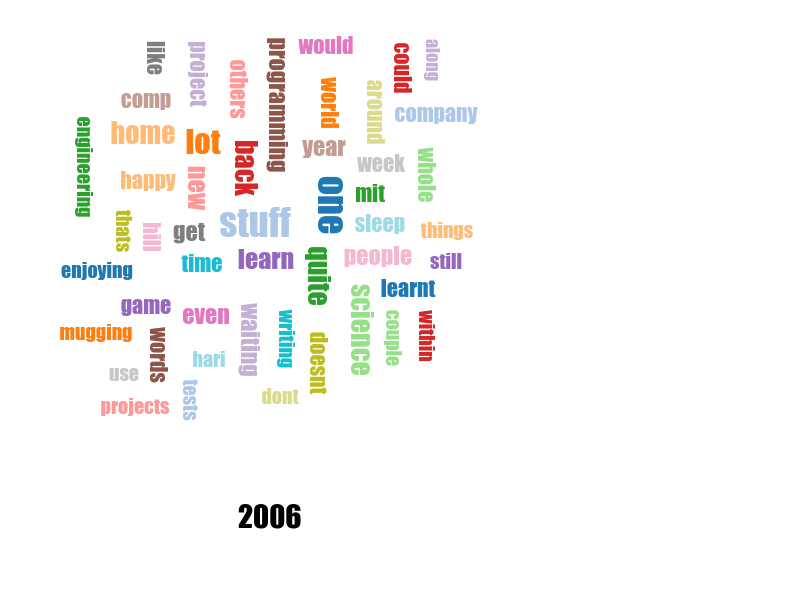
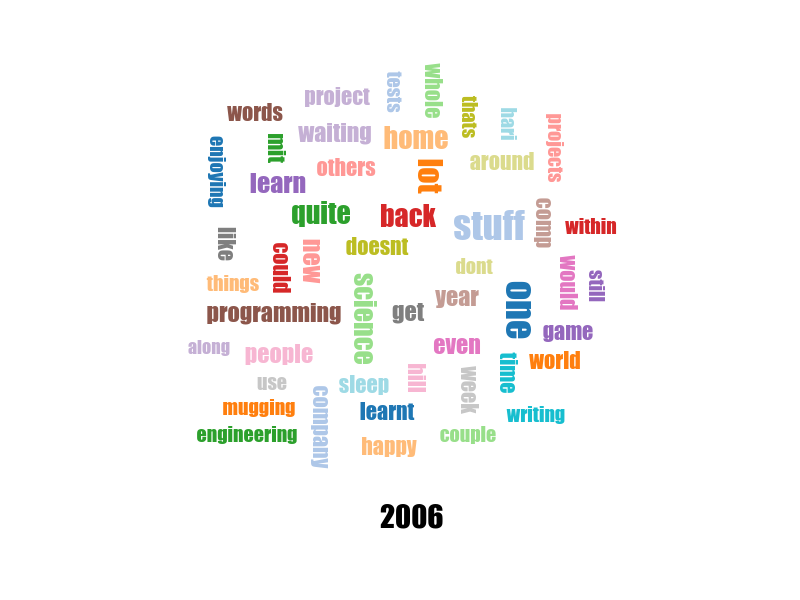
blog: Center align text to improve screenshot

diff --git a/index.html b/index.html
@@ -59,7 +59,7 @@ footer {
 <span><a href='blog/index.html'><img src='blog/screenshot.png' />Word clouds for my blog</a> (2017-09-11)</span>
 <span><a href='30-years-floods/index.html'><img src='30-years-floods/screenshot.png' />Floods in India</a> (2017-09-03)</span>
         </div>
-        <footer>Last updated: Thursday 17 February 2022 02:12:15 AM IST</footer>
+        <footer>Last updated: Thursday 17 February 2022 02:23:56 AM IST</footer>
       </div>
     </body>
 </html>

diff --git a/blog/main.css b/blog/main.css
@@ -1,0 +1,3 @@
+#chart {
+    text-align: center;
+}
